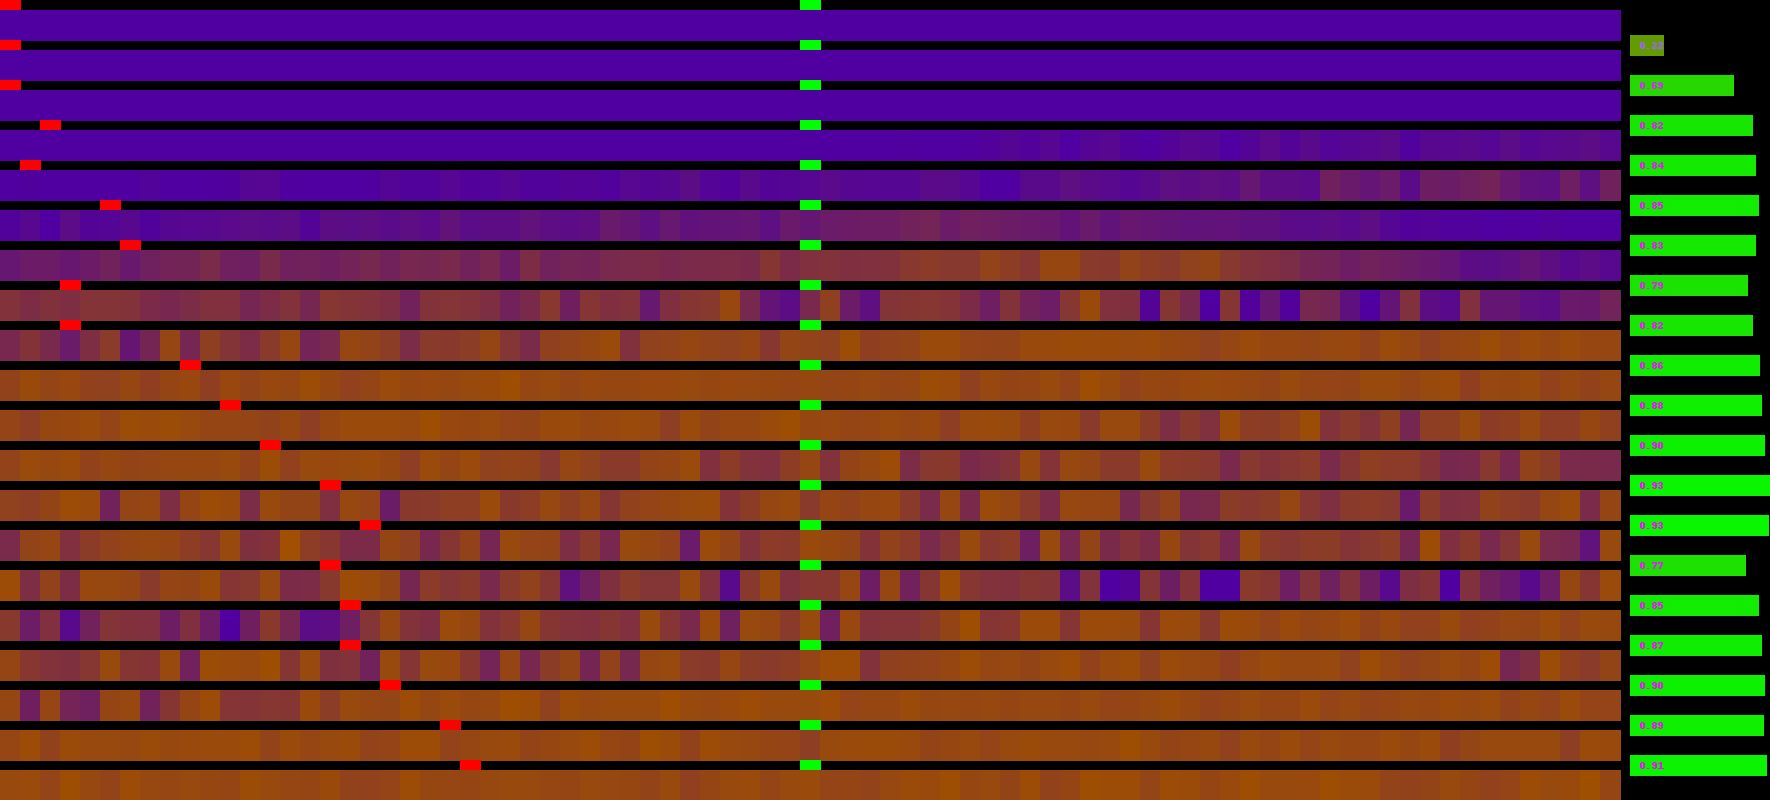
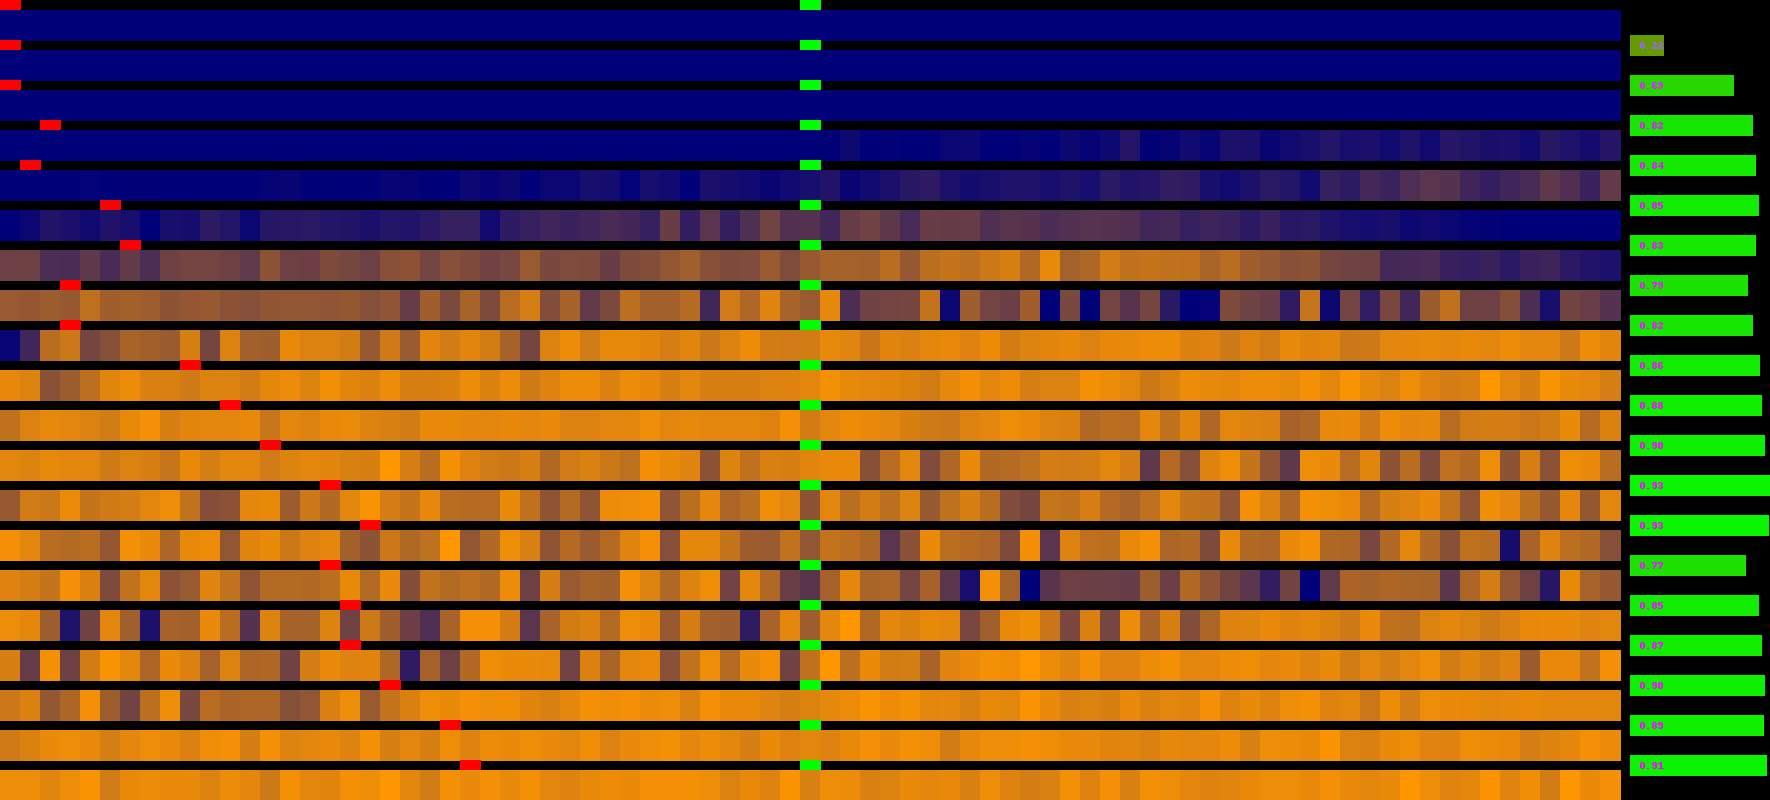
Changed color palette and added background for id of input policy >= 10 in Vignette 2D

diff --git a/savedVignette.py b/savedVignette.py
@@ -141,8 +141,9 @@ class SavedVignette:
 				index, distance = self.indicesPolicies[k], round(self.policyDistance[k]/self.stepalpha)
 				x0, y0 = (distance + len(self.lines[0])//2) * self.pixelWidth, index * self.pixelHeight
 				x1, y1 = x0 + self.pixelWidth, y0 + self.pixelHeight
-				color = invertColor(newIm.getpixel((x0,y0)))
-				newDraw.ellipse([x0+marginX, y0+marginY, x1-marginX, y1-marginY], fill=color)
+				color = invertColor(newIm.getpixel((x0,y0)))				
+				# Numbers bigger than 10
+				newDraw.ellipse([x0+ marginX, y0+marginY, x1+(3 * len(str(k)) - 3)*marginX, y1-marginY], fill=color)
 				newDraw.text((x0+ int(1.5 * marginX), y0), str(k), fill=invertColor(color))
 		
 		return newIm

diff --git a/savedGradient.py b/savedGradient.py
@@ -122,7 +122,7 @@ if __name__ == "__main__":
     # Loading the gradient
     loadedGradient = loadFromFile(args.filename, folder=args.directory)
     # Changing the color palette
-    #color1, color2 = (40,0,200), (120,120,0)
-    #loadedGradient.changeColor(color1=color1, color2=color2)
+    color1, color2 = colorTest.color1, colorTest.color2
+    loadedGradient.changeColor(color1=color1, color2=color2)
     # Computing the new image and saving the results
     loadedGradient.computeImage(filename=args.outputName, directory=args.outputDir)

diff --git a/colorTest.py b/colorTest.py
@@ -16,7 +16,7 @@ from vector_util import *
 from slowBar import SlowBar
 
 # Chosen color palette
-color1, color2 = (20,0,230), (230,230,0)
+color1, color2 = (0,0,120), (255,151,0)
 
 @checkFormat('.png')
 def createPalette(filename="color_palette",
